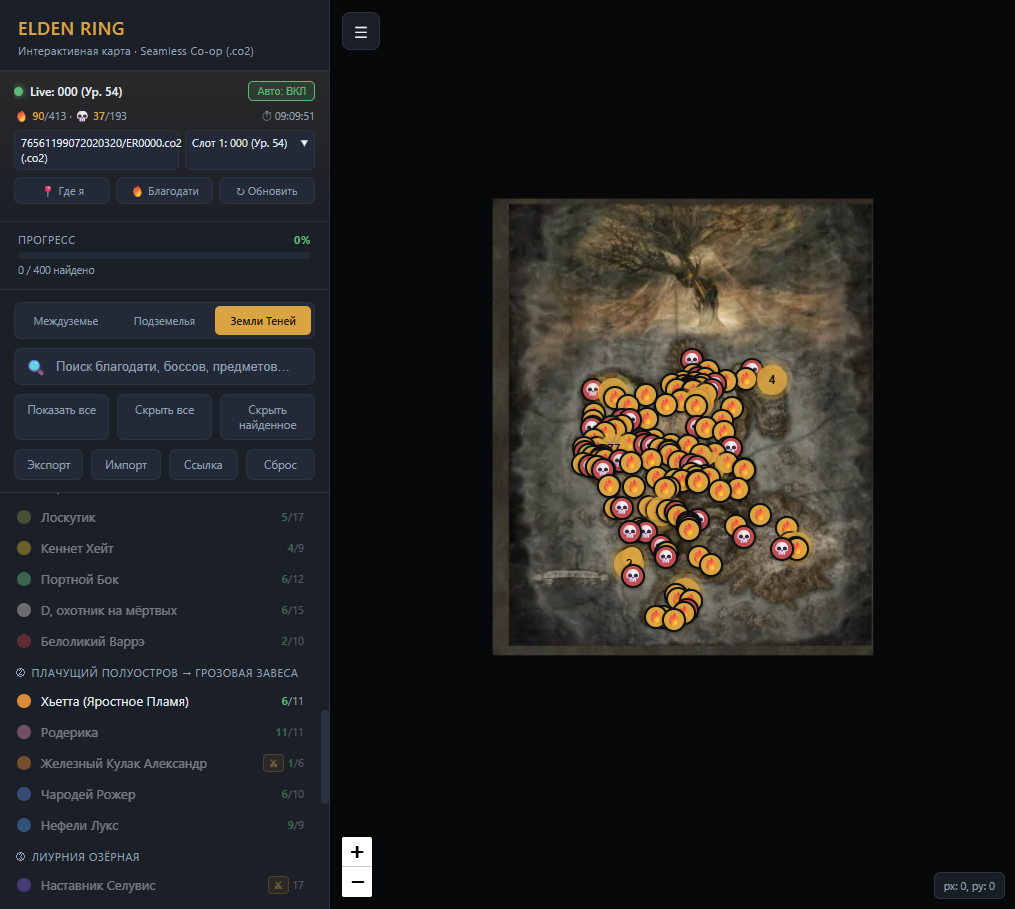
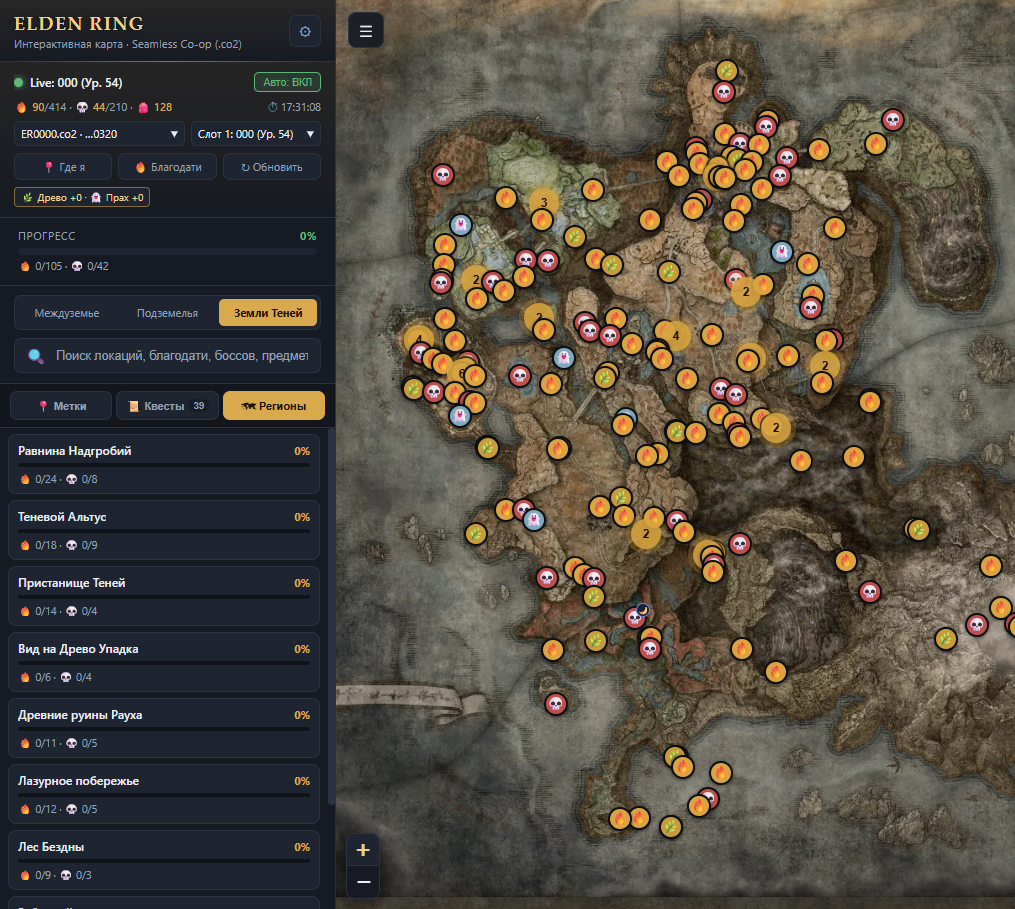
docs: rewrite README and update screenshots for v1.3.0

diff --git a/README.md b/README.md
@@ -1,79 +1,146 @@
-# Elden Ring Seamless Co-op (.co2) — Живая карта и трекер квестов
+# Elden Ring Seamless Co-op Live Map Tracker
 
-Полностью локальная, бесплатная и русифицированная интерактивная карта для **Elden Ring** и дополнения **Shadow of the Erdtree**, которая **сама в реальном времени** читает ваш файл сохранения (`.co2` от **Seamless Co-op** или обычный `.sl2`) и автоматически отмечает прогресс.
+Интерактивная офлайн-карта и live-трекер прогресса для **Elden Ring** и **Seamless Co-op** (`.co2` / `.sl2`), работающий локально в браузере и фоново в системном трее Windows.
 
-![Общий вид карты Междуземья и панель Live-синхронизации](docs/screenshots/map-overworld.png)
+Приложение в реальном времени (только чтение) считывает бинарные сохранения игры из `%APPDATA%\EldenRing`, автоматически отмечает открытые места благодати, побеждённых боссов, собранную экипировку и благословения DLC, отслеживает этапы 39 квестовых линий и показывает текущее положение вашего персонажа на карте.
 
----
-
-## Что умеет трекер
-
-- **Автообновление карты в реальном времени (SSE)**: сервер отслеживает изменение сохранения по времени модификации, размеру и MD5-контрольной сумме слота (`%APPDATA%\EldenRing\<SteamID>\ER0000.co2`). Как только игра делает автосохранение, карта мгновенно обновляется и показывает кликабельное уведомление (`🔥 Открыта благодать`, `💀 Босс повержен`, `🎒 Предмет`, `📍 Локация`, `📜 Квест`, `💬 Встречен / переместился НПС`).
-- **414 мест благодати и 210 боссов** отмечаются автоматически по флагам событий из сохранения, включая **22 ночных и условных босса** с меткой `🌙` и условием появления (Ночная кавалерия, Птицы смерти, Охотники за колокольными сферами), а также списком наград в карточке босса.
-- **873 предмета и DLC-улучшения** (оружие, талисманы, броня, чары и молитвы, прах духов, пеплы войны — включая вставленные в оружие, кристальные слёзы, великие руны, точильные клинки, золотые семечки, священные слёзы, слёзы личинки, камни памяти, **50 Осколков Древа Упадка** на `42` точках и **25 Праха почитаемого духа** на `23` точках DLC) автоматически отмечаются из сохранения, содержат подсказку **«📍 Как получить»** на русском языке, а в панели выводятся текущие уровни благословений DLC.
-- **193 локации на карте** (пещеры/катакомбы/туннели, руины, храмы/церкви, узилища, форты, башни и деревни) с автоотметкой зачистки/посещения.
-- **Точные ориентиры и прогресс по регионам**: места благодати и боссы не объединяются в кластеры (с адаптивным масштабом при отдалении), а вкладка **«🗺 Регионы»** показывает прогресс прохождения и позволяет одним кликом отфильтровать конкретный регион (учитываются только благодати и боссы).
-- **39 квестовых линий и 75 динамических NPC** (базовая игра + DLC):
-  - Проверяет EMEVD-флаги диалогов/стадий NPC, флаги мировых событий, предметы в инвентаре и сундуке, открытые благодати и убитых боссов (`⚡ .co2` — прямое подтверждение, `↳ Авто` — пройдено по цепочке), показывает статус NPC (`⚔ Враждебен`, `💀 Погиб`).
-  - Режим **«Живые» / «Все»** на метках NPC отображает только встреченных персонажей в их актуальной локации.
-  - Вкладка квестов с фильтрами по статусу (**Все / В процессе / Не начаты / Завершены**), кнопками массового показа/скрытия, кнопкой **«Снять с карты»** и полной синхронизацией с фильтром **«Скрыть найденное»**.
-- **Позиция персонажа (`📍 Где я`)**: показывает вашу текущую позицию в Междуземье, Землях Теней и под землёй (`M01` — Река Сиофра/Нокрон, Река Ансель/Нокстелла, Озеро Гнили, Низовье Глубокого Корня, Дворец Могвинов), а в пещерах и катакомбах сообщает их точное русское название.
-- **Полная русификация и удобный интерфейс**: вкладки `Метки` / `Квесты` / `Регионы`, плавающие чипы активных фильтров, меню настроек `⚙` (экспорт, импорт, ссылка, сброс) и сквозной поиск по всем трём картам на русском и английском.
-
-| Отслеживание квестов по `.co2` | Карта Земель Теней (DLC) |
-| :---: | :---: |
-| ![Панель квестов с автосинхронизацией](docs/screenshots/quest-tracker.png) | ![Карта Земель Теней](docs/screenshots/map-dlc.png) |
-
-## Безопасность
-
-Трекер работает строго в режиме **read-only** (только чтение файла `.co2` / `.sl2` с диска). Он не модифицирует сохранение и не внедряется в память или процесс игры.
+![Междуземье — основная карта и панель фильтров v1.3.0](docs/screenshots/map-overworld.png)
 
 ---
 
-## Как запустить
+## Масштаб базы данных
 
-### Вариант 1: Готовый `.exe` (без установки Python — удобно скинуть другу)
-1. Скачайте **`EldenRingCoopTracker.exe`** из раздела [**Releases**](https://github.com/acneangelx/elden-ring-coop-tracker/releases).
-2. Запустите файл двойным кликом — приложение тихо откроется в **системном трее Windows** (рядом с часами, без лишнего консольного окна) и откроет карту в браузере. Повторный запуск `.exe` не плодит копии, а открывает уже работающую карту.
-3. Через иконку в трее доступны статус персонажа, быстрое открытие карты, проверка обновлений на GitHub и кнопка **«Выход»**.
-4. В левом верхнем блоке выберите ваш файл `.co2` и слот персонажа (обычно выбирается автоматически).
+| Раздел | В базе v1.3.0 |
+| :--- | :--- |
+| **Слои карты** | **3 слоя**: Междуземье (`1 497`), Подземелья (`121`), Земли Теней DLC (`506`) — всего **2 124 маркера** в **24 категориях** |
+| **Места благодати** | **414** точек на поверхности, в подземельях и в DLC |
+| **Боссы** | **210** боссов (**152** карточки описаний, **194** таблицы наград/дропа на русском) |
+| **Снаряжение и коллекционка** | **873** отслеживаемых предмета (оружие, броня, талисманы, заклинания, прах духов, пеплы войны, слёзы, камни памяти, а также **42** точки Осколков Древа Упадка и **23** точки Праха почитаемого духа) |
+| **Квесты и NPC** | **39** сюжетных цепочек с авто-детекцией шагов по флагам сохранения и **75** динамических NPC (**312** позиций на карте) |
+| **Локации и флаги** | **193** объекта на карте (63 пещеры/катакомбы/туннели, 31 руина, 30 храмов/церквей, 10 узилищ, 59 фортов/башен/деревень) и **11 920** event-флагов |
 
-### Вариант 2: Запуск из исходников
-Требуется только Python 3.10+ (для консольного режима сторонние пакеты не нужны — используется только стандартная библиотека; для режима трея `--tray` нужны `pystray` и `Pillow`):
-```powershell
+---
+
+## Основные возможности
+
+### Живая синхронизация с сохранением (`.co2` / `.sl2`)
+- **Мгновенный SSE-поток (`/api/events`)** — карта автоматически обновляется в браузере, как только игра сохраняет прогресс на диск, без ручной перезагрузки страницы (или по кнопке `↻ Обновить`).
+- **Поддержка Seamless Co-op и ванильной игры** — автопоиск файлов `.co2` и `.sl2` в `%APPDATA%\EldenRing\<SteamID>\`, удобное переключение файлов и слотов персонажа (`Слот 1..10`).
+- **Позиция персонажа (`📍 Где я`)** — точная проекция координат игрока (`★`) на поверхности Междуземья, в Землях Теней, на карте Подземелий (`M01`) и распознавание текущего подземелья/пещеры/катакомб.
+- **Благословения Shadow of the Erdtree** — в шапке сайдбара отображаются актуальные уровни игрока: `🌿 Древо +X · 👻 Прах +Y`.
+- **Абсолютная безопасность** — парсер открывает файлы сохранения **строго в режиме чтения**, ничего не записывает обратно на диск и не внедряется в процесс игры.
+
+### Обновлённый интерфейс и навигация (v1.3.0)
+- **Трёхвкладочный сайдбар**: `📍 Метки`, `📜 Квесты` и `🗺 Регионы` в единой тёмной палитре с адаптивным масштабированием маркеров и кластеризацией при отдалении.
+- **Честный расчёт прогресса** — шкала прохождения (по слою карты и по каждому региону) считается по **местам благодати и боссам** (`100%` = все благодати и боссы региона открыты и побеждены).
+- **Карточки регионов и быстрая фильтрация** — вкладка `🗺 Регионы` показывает прогресс по каждой области, клик выделяет регион на карте, а в углу экрана отображается бейдж региона под курсором (`🗺 ...`).
+- **Удобное управление метками** — кнопки `Показать все`, `Скрыть все`, `Скрыть найденное` (синхронизировано с выполненными шагами квестов), динамический режим `Живые` для NPC (только актуальные точки) и плавающие чипсы активных фильтров рядом с `☰`.
+- **Локализация и подсказки** — поиск по русским и английским названиям, описания `📍 Как получить:` для предметов, перечень наград за победу над боссами.
+
+### Трекер квестов и управление прогрессом
+- **39 квестовых линий** с группировкой по главам, фильтрами статуса (`Все`, `В процессе`, `Не начаты`, `Завершены`) и кнопками массового отображения (`Показать активные`, `Скрыть все`).
+- **Детальная панель квеста** — пронумерованные маркеры этапов с пунктирным маршрутом на карте, значки `⚡ .co2` на шагах с живыми флагами, предупреждения о точках невозврата и кнопки `На карте` / `Снять с карты`.
+- **Резервное копирование и шэринг** — меню `⚙` включает `📤 Экспорт прогресса`, `📥 Импорт прогресса` (JSON), `🔗 Ссылка на позицию` и `🗑 Сбросить отметки`.
+
+### Работа в системном трее Windows (`.exe`)
+- **Автономный билд с фирменной иконкой** — при запуске `.exe` приложение работает тихо без консольного окна и добавляет значок в системный трей Windows (`Открыть карту`, статус персонажа, `Проверить обновления`, `Выход`).
+- **Защита от дублей** — single-instance mutex гарантирует один активный экземпляр трекера при повторном запуске.
+- **Проверка обновлений** — встроенное уведомление о новых версиях через GitHub Releases (`/api/update-check`).
+
+<table width="100%">
+  <tr>
+    <td width="50%" valign="top">
+      <img src="docs/screenshots/quest-tracker.png" alt="Трекер квестов и пошаговый маршрут на карте" width="100%" />
+      <br />
+      <sub><b>Трекер 39 квестов:</b> пошаговые маршруты на карте, живые флаги <code>⚡ .co2</code>, награды и предупреждения об условиях.</sub>
+    </td>
+    <td width="50%" valign="top">
+      <img src="docs/screenshots/map-dlc.png" alt="Карта Shadow of the Erdtree и вкладка Регионы" width="100%" />
+      <br />
+      <sub><b>Земли Теней (DLC) и «Регионы»:</b> 9 локаций DLC, счётчики благословений Древа/Праха и коллекции на карте.</sub>
+    </td>
+  </tr>
+</table>
+
+---
+
+## Быстрый старт
+
+### Вариант 1: Готовый `.exe` для Windows (рекомендуется)
+1. Скачайте последний `EldenRingCoopTracker.exe` со страницы [GitHub Releases](https://github.com/acneangelx/elden-ring-coop-tracker/releases).
+2. Положите файл в удобную папку и запустите двойным кликом.
+3. Иконка появится в системном трее Windows, а карта автоматически откроется в браузере по адресу `http://127.0.0.1:8777/`.
+
+> **Полезные флаги CLI** (при запуске из терминала или ярлыка):
+> - `--console` — запуск с консолью вместо системного трея
+> - `--port 8778` — выбрать другой локальный порт (если занят, сервер автоматически перебирает `+1..+10`)
+> - `--no-browser` — не открывать вкладку браузера при старте
+
+### Вариант 2: Запуск из исходников (Python 3.10+)
+Консольный режим использует **только стандартную библиотеку Python** — дополнительные пакеты не требуются:
+
+```bash
 git clone https://github.com/acneangelx/elden-ring-coop-tracker.git
 cd elden-ring-coop-tracker
 python server.py
 ```
-Или просто запустите `start_tracker.bat`. Карта откроется на `http://127.0.0.1:8777` (если порт занят, автоматически выберется свободный из `8777..8787`).
 
----
+Для запуска из исходников с иконкой в системном трее Windows установите `pystray` и `Pillow` и передайте флаг `--tray`:
 
-## Как собрать `.exe` самостоятельно
+```bash
+pip install pystray Pillow
+python server.py --tray
+```
+
+*(Также в корне репозитория есть `start_tracker.bat` для быстрого запуска консольной версии на Windows.)*
+
+### Вариант 3: Самостоятельная сборка `.exe`
+Для сборки одного автономного исполняемого файла требуется окружение `.venv_build` с установленными `pyinstaller`, `pystray` и `Pillow`:
 
 ```powershell
 python -m venv .venv_build
-.\.venv_build\Scripts\python.exe -m pip install pyinstaller pystray Pillow
+.\.venv_build\Scripts\pip install pyinstaller pystray Pillow
 .\.venv_build\Scripts\python.exe build_exe.py
 ```
-Собранный автономный файл появится в `dist\EldenRingCoopTracker.exe`.
+
+Скрипт упакует статические ресурсы из `web/` в `build_assets/web.zip`, встроит таблицы из `data/` и значок `assets/app.ico`, после чего соберёт итоговый файл в `dist/EldenRingCoopTracker.exe`.
 
 ---
 
 ## Структура проекта
 
-- `server.py` — локальный HTTP + SSE сервер (раздаёт статику с диска или из встроенного `web.zip`, поддерживает проверку релизов GitHub).
-- `tray_app.py` — иконка в системном трее Windows (`pystray`), защита от повторного запуска через именованный mutex.
-- `er_save_parser.py` — бинарный парсер `.co2` / `.sl2` (BND4, флаги событий, инвентарь, сундук, вставленные пеплы войны, благословения DLC, координаты игрока с проекцией `M01`, оценка квестов, предметов, локаций и стадий NPC).
-- `assets/app.ico` — иконка приложения для `.exe` и системного трея.
-- `data/eventflag_bst.txt` — карта смещений блоков флагов событий.
-- `data/item_rules.json` — правила автоотметки 873 предметов и расходников, базовые ID праха и альтернативной брони.
-- `data/location_rules.json` — правила автоотметки 193 локаций.
-- `data/quest_rules.json` — правила автоопределения шагов для 39 квестовых линий.
-- `data/npc_rules.json` — правила динамического отслеживания стадий 75 NPC.
-- `data/legacy_conv.json` — таблицы проекции координат `M01` и русские названия подземелий.
-- `web/` — фронтенд на Leaflet + локальные тайлы (`M00` Междуземье, `M01` Подземелья, `M10` Земли Теней), русифицированные базы `markers.js`, `bossdata.js`, `itemdata.js`, `quests.js`, модуль `coop-sync.js`.
-- `build_exe.py` — сборщик однофайлового `.exe` (`--noconsole`) через PyInstaller.
+```text
+elden-ring-coop-tracker/
+├── server.py               # Локальный HTTP/SSE-сервер, API сохранений (/api/*), проверка обновлений и CLI
+├── tray_app.py             # Системный трей Windows (pystray), single-instance mutex и меню управления
+├── er_save_parser.py       # Бинарный парсер .co2/.sl2 (флаги событий, благодати, инвентарь, координаты, DLC)
+├── build_exe.py            # Сборка standalone single-file EXE через PyInstaller
+├── start_tracker.bat       # Быстрый запуск консольного сервера на Windows
+├── assets/
+│   └── app.ico             # Иконка приложения и системного трея в стиле Elden Ring
+├── data/
+│   ├── eventflag_bst.txt   # Таблица 11 920 EventFlag ID -> смещение в битовом блоке сохранения
+│   ├── quest_rules.json    # Правила авто-детекции шагов для 39 квестовых цепочек
+│   ├── npc_rules.json      # Состояния 75 динамических NPC
+│   ├── item_rules.json     # Правила соответствия ID предметов инвентаря маркерам (873 предмета)
+│   ├── location_rules.json # 193 правила открытых локаций и областей карты
+│   └── legacy_conv.json    # Проекции координат для подземных/legacy областей и названия подземелий
+├── web/
+│   ├── index.html          # Основной интерфейс (3 вкладки сайдбара, карта, панель квестов, настройки)
+│   ├── coop-sync.js / .css # SSE-клиент живой синхронизации, бейдж региона, чипсы фильтров и оверлеи
+│   ├── markers.js          # 2 124 маркера по слоям M00, M01, M10
+│   ├── quests.js           # Локализованные описания, шаги, предупреждения и награды для 39 квестов
+│   ├── bossdata.js         # Карточки боссов и таблицы дропа
+│   ├── itemdata.js         # Подсказки «Как получить» и локализованные описания предметов
+│   ├── ctiles/             # Офлайн-тайлы карт (Междуземье, Подземелья, Земли Теней)
+│   ├── icons/              # Иконки маркеров карты и статусов
+│   ├── vendor/leaflet/     # Локальный Leaflet
+│   └── favicon.png         # Иконка вкладки браузера
+└── docs/
+    └── screenshots/        # Скриншоты интерфейса для README
+```
+
+---
 
 ## Благодарности и источники данных
 - Офлайн-карта, тайлы, иконки и основа базы маркеров/квестов: [jw-ofs/elden-ring-map](https://github.com/jw-ofs/elden-ring-map)
